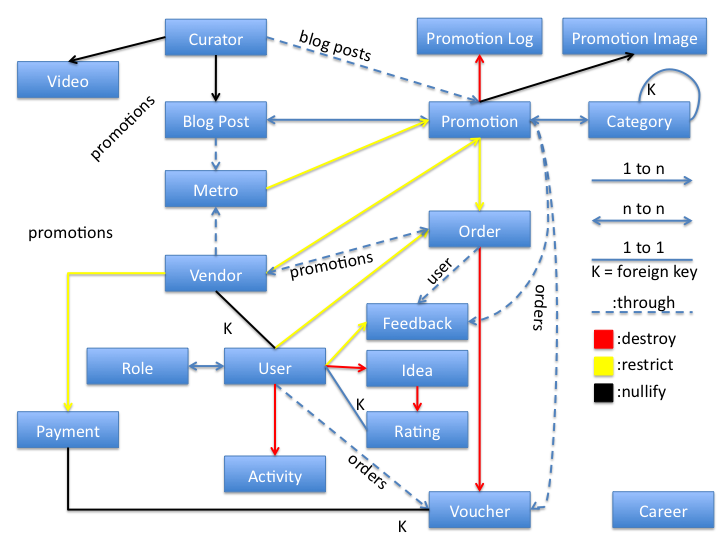
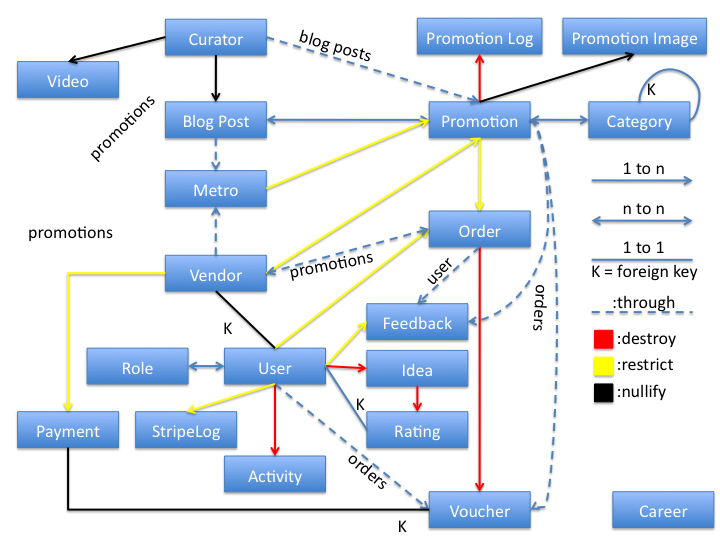
Detect customer on stripe events; use calendar datepickers
Update documentation and tests; example default jQuery DatePicker on
create promotion

Changed region(s): [[0.1833, 0.7111, 0.3972, 0.8593]]

diff --git a/app/assets/javascripts/promotions.js b/app/assets/javascripts/promotions.js
@@ -93,6 +93,30 @@ $(function() {
 						                     });   	
     }
   }
+  
+  $("#jq_start_date").datepicker({
+  	onSelect: function(dateText, inst) { 
+  		// 11/28/2012 format
+  		fields = dateText.split('/');
+		// Set year
+		$('#promotion_start_date_1i').val(fields[2]);
+		// Set month
+		$('#promotion_start_date_2i').val(fields[0]);
+		// Set day
+		$('#promotion_start_date_3i').val(fields[1]);
+  	}
+  });
+  $("#jq_end_date").datepicker({
+ 	onSelect: function(dateText, inst) { 
+  		fields = dateText.split('/');
+		// Set year
+		$('#promotion_end_date_1i').val(fields[2]);
+		// Set month
+		$('#promotion_end_date_2i').val(fields[0]);
+		// Set day
+		$('#promotion_end_date_3i').val(fields[1]);  
+	}	
+  });
 });
 
 // Appears in views/merchant/order/_order_form; currently commented out

diff --git a/spec/requests/stripe_webhooks_spec.rb b/spec/requests/stripe_webhooks_spec.rb
@@ -6,6 +6,10 @@ describe "Stripe webhooks" do
       post test_stripe_path, log.event
     end
     
+    it "should not have a user" do
+      StripeLog.first.user.should be_nil
+    end
+    
     it "should create a log" do
       StripeLog.count.should == 1
     end
@@ -20,6 +24,44 @@ describe "Stripe webhooks" do
       
       it "should not create a log" do
         StripeLog.count.should == 0
+      end
+    end
+  end
+  
+  describe "user" do
+    let(:user) { FactoryGirl.create(:user, :stripe_id => 'cus_00000000000001') }
+    let(:log) { FactoryGirl.build(:stripe_log) }
+    
+    describe "post by customer" do
+      before do
+        evt = JSON.parse log.event, :symbolize_names => true
+        evt[:data][:object][:customer] = user.stripe_id
+        log.event = evt.to_json
+        
+        post test_stripe_path, log.event
+        @event = StripeLog.last
+      end
+      
+      it "should detect the user" do
+        @event.user.id.should be == user.id
+        user.stripe_logs.first.id.should == @event.id
+      end
+    end
+
+    describe "post by email" do
+      before do
+        evt = JSON.parse log.event, :symbolize_names => true
+        evt[:data][:object].delete(:email)
+        evt[:data][:object][:email] = user.email
+        log.event = evt.to_json
+        
+        post test_stripe_path, log.event
+        @event = StripeLog.last
+      end
+      
+      it "should detect the user" do
+        @event.user.id.should be == user.id
+        user.stripe_logs.first.id.should == @event.id
       end
     end
   end

diff --git a/app/controllers/stripe_logs_controller.rb b/app/controllers/stripe_logs_controller.rb
@@ -10,7 +10,19 @@ class StripeLogsController < ApplicationController
     data = JSON.parse body, :symbolize_names => true
     logger.info "Received event with ID: #{data[:id]} Type: #{data[:type]} Mode: #{data[:livemode]}"
     if StripeLog::MONITORED_TYPES.include?(data[:type])
-      StripeLog.create!(:event_id => data[:id], :event_type => data[:type], :livemode => data[:livemode], :event => body)
+      @user = nil
+      if !data[:data][:object][:customer].blank?
+        @user = User.find_by_stripe_id(data[:data][:object][:customer])
+      end
+      if @user.nil? and !data[:data][:object][:email].blank?
+        @user = User.find_by_email(data[:data][:object][:email])
+      end
+      
+      if @user.nil?
+        StripeLog.create!(:event_id => data[:id], :event_type => data[:type], :livemode => data[:livemode], :event => body)
+      else
+        StripeLog.create!(:event_id => data[:id], :event_type => data[:type], :livemode => data[:livemode], :user_id => @user.id, :event => body)
+      end
     end
     
     head :ok

diff --git a/spec/models/user_spec.rb b/spec/models/user_spec.rb
@@ -60,9 +60,29 @@ describe "Users" do
   it { should respond_to(:zipcode) }
   it { should respond_to(:optin) }
   it { should respond_to(:categories) }
+  it { should respond_to(:stripe_logs) }
   
   it { should be_valid }
-
+ 
+  describe "stripe logs" do
+    let(:log) { FactoryGirl.create(:stripe_log, :user => user) }
+    
+    it "should be there" do
+      log.user.id.should be == user.id
+      user.stripe_logs.count.should be == 1
+      user.stripe_logs.first.id.should be == log.id
+      expect { user.reload.destroy }.to raise_exception(ActiveRecord::DeleteRestrictionError)
+    end
+        
+    describe "delete logs first" do
+      before { StripeLog.destroy_all }
+      
+      it "can delete now" do
+        expect { user.reload.destroy }.to_not raise_exception
+      end
+    end
+  end
+  
   describe "Profile fields" do
     describe "missing optin" do
       before { user.optin = nil }

diff --git a/app/models/user.rb b/app/models/user.rb
@@ -69,6 +69,7 @@ class User < ActiveRecord::Base
   has_and_belongs_to_many :categories, :uniq => true
   has_one :vendor, :dependent => :nullify
   has_many :ideas, :dependent => :destroy
+  has_many :stripe_logs, :dependent => :restrict
   
   accepts_nested_attributes_for :vendor, :allow_destroy => true, :reject_if => :all_blank
   accepts_nested_attributes_for :feedbacks, :allow_destroy => true, :reject_if => :all_blank
